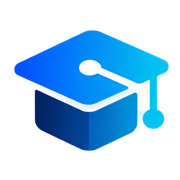
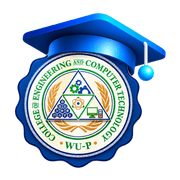
last na sana

diff --git a/components/landing/landing-nav.tsx b/components/landing/landing-nav.tsx
@@ -75,7 +75,7 @@ export function LandingNav({ account, floating = false }: { account: { homeHref:
   const pendingSection = useRef<string | null>(null)
   const headerRef = useRef<HTMLElement>(null)
   const currentSection = useCurrentSection(headerRef)
-  const menuLinks = account ? [{ href: account.homeHref, label: "Open Campus Agent" }] : GUEST_LINKS
+  const menuLinks = account ? [{ href: account.homeHref, label: "Open CECT Agent" }] : GUEST_LINKS
 
   return (
     <header ref={headerRef} className={cn(
@@ -92,7 +92,7 @@ export function LandingNav({ account, floating = false }: { account: { homeHref:
       )}>
         <Link
           href="/"
-          aria-label="Campus Agent home"
+          aria-label="CECT Agent home"
           onClick={(event) => {
             // Already on the landing page: glide back to the hero (smooth via globals.css) instead of re-navigating.
             if (location.pathname !== "/") return
@@ -106,13 +106,13 @@ export function LandingNav({ account, floating = false }: { account: { homeHref:
               src="/assets/newlogo.png"
               width={2172}
               height={724}
-              alt="Campus Agent"
+              alt="CECT Agent"
               sizes="(min-width: 640px) 168px, (min-width: 360px) 144px, 120px"
               preload
               className="h-10 w-30 object-contain min-[360px]:h-12 min-[360px]:w-36 sm:h-14 sm:w-42"
             />
           ) : (
-            <LandingLogo className="h-6 w-auto sm:h-7" priority />
+            <LandingLogo sizes="(min-width: 360px) 144px, 120px" className="h-10 w-auto min-[360px]:h-12" priority />
           )}
         </Link>
 
@@ -138,7 +138,7 @@ export function LandingNav({ account, floating = false }: { account: { homeHref:
             // Short label on phones so the header never overflows at 360px.
             <Link href={account.homeHref} className={cn(buttonVariants({ size: "lg" }), floating ? "h-10 gap-2 rounded-xl px-2.5 text-xs font-semibold transition-colors duration-200 hover:bg-primary/90 min-[360px]:text-sm sm:h-11 sm:px-4 motion-reduce:transition-none" : "px-3 sm:px-4")}>
               <span className="sm:hidden">Open app</span>
-              <span className="hidden sm:inline">Open Campus Agent</span>
+              <span className="hidden sm:inline">Open CECT Agent</span>
               {floating && <ArrowRight className="size-4" aria-hidden="true" />}
             </Link>
           ) : (
@@ -177,9 +177,9 @@ export function LandingNav({ account, floating = false }: { account: { homeHref:
             <SheetContent side="right" className="w-72 max-w-[calc(100vw-2rem)] gap-0 p-0">
               <SheetTitle className="border-b px-5 py-4">
                 {floating ? (
-                  <Image src="/assets/newlogo.png" width={2172} height={724} alt="Campus Agent" sizes="144px" className="h-12 w-36 object-contain" />
+                  <Image src="/assets/newlogo.png" width={2172} height={724} alt="CECT Agent" sizes="144px" className="h-12 w-36 object-contain" />
                 ) : (
-                  <LandingLogo className="h-6 w-auto" />
+                  <LandingLogo sizes="144px" className="h-12 w-auto" />
                 )}
                 <span className="sr-only">Menu</span>
               </SheetTitle>

diff --git a/app/admin/page.tsx b/app/admin/page.tsx
@@ -83,7 +83,7 @@ export default async function AdminDashboardPage() {
   const firstName = profile.full_name?.trim().split(/\s+/)[0] || "Admin"
 
   const metrics: { label: string; value: number; note: string; href: string; icon: LucideIcon }[] = [
-    { label: "Published Knowledge", value: publishedSections, note: "Available to Campus Agent", href: "/admin/knowledge", icon: Library },
+    { label: "Published Knowledge", value: publishedSections, note: "Available to CECT Agent", href: "/admin/knowledge", icon: Library },
     { label: "Ready Sources", value: readySources, note: "Processed and available", href: "/admin/knowledge", icon: FileText },
     { label: "Users", value: users, note: "Registered accounts", href: "/admin/users", icon: Users },
     { label: "Published Announcements", value: publishedAnnouncements, note: "University-wide notices", href: "/admin/announcements?tab=published", icon: Megaphone },
@@ -170,7 +170,7 @@ export default async function AdminDashboardPage() {
         <div className="min-w-0">
           <p className="text-sm text-muted-foreground">{greeting(now, timezone)},</p>
           <h1 className="mt-0.5 text-2xl font-semibold tracking-tight text-[var(--ink)]">Welcome back, {firstName}!</h1>
-          <p className="mt-1 text-sm text-muted-foreground">Here&apos;s an overview of your Campus Agent system.</p>
+          <p className="mt-1 text-sm text-muted-foreground">Here&apos;s an overview of your CECT Agent system.</p>
         </div>
         <DashboardClock initialIso={now} timezone={timezone} />
       </header>
@@ -197,12 +197,12 @@ export default async function AdminDashboardPage() {
       <section aria-labelledby="readiness-heading" className="mt-5 overflow-hidden rounded-lg border bg-background">
         <div className={sectionHeader}>
           <h2 id="readiness-heading" className="font-semibold">System readiness</h2>
-          <p className="mt-0.5 text-sm text-muted-foreground">Key content and configuration Campus Agent depends on.</p>
+          <p className="mt-0.5 text-sm text-muted-foreground">Key content and configuration CECT Agent depends on.</p>
         </div>
         {allReady && (
           <p className="flex items-center gap-2 border-b bg-[var(--success-surface)] px-5 py-2.5 text-sm font-medium text-[var(--success)]">
             <CircleCheck className="size-4" aria-hidden="true" />
-            Campus Agent is ready.
+            CECT Agent is ready.
           </p>
         )}
         <ul className="divide-y">
@@ -236,7 +236,7 @@ export default async function AdminDashboardPage() {
       <section aria-labelledby="updates-heading" className="mt-5 overflow-hidden rounded-lg border bg-background">
         <div className={sectionHeader}>
           <h2 id="updates-heading" className="font-semibold">Recent updates</h2>
-          <p className="mt-0.5 text-sm text-muted-foreground">Latest changes across Campus Agent.</p>
+          <p className="mt-0.5 text-sm text-muted-foreground">Latest changes across CECT Agent.</p>
         </div>
         {updates.length > 0 ? (
           <ul className="divide-y">

diff --git a/components/shared/logo.tsx b/components/shared/logo.tsx
@@ -1,25 +1,21 @@
 import Image from "next/image"
 import { cn } from "cn"
 
-// public/assets/logo.png is a 2060×344 lockup: graduation-cap mark + "Campus Agent".
-const SRC = "/assets/logo.png"
-const WIDTH = 2060
-const HEIGHT = 344
+// public/assets/newlogo.png is a 2172×724 lockup: CECT seal with graduation cap + "CECT Agent".
+const SRC = "/assets/newlogo.png"
+const WIDTH = 2172
+const HEIGHT = 724
+// public/assets/newlogo-mark.png is the seal and cap alone, cut from the same artwork (256×256).
+const MARK_SRC = "/assets/newlogo-mark.png"
 
-/** Full logo. Size it by height (e.g. "h-7 w-auto"); the aspect ratio is preserved. */
-export function Logo({ className = "h-7 w-auto", priority = false, alt = "Campus Agent" }: { className?: string; priority?: boolean; alt?: string }) {
-  return <Image src={SRC} width={WIDTH} height={HEIGHT} alt={alt} priority={priority} className={className} />
+/** Full logo. Size it by height (e.g. "h-10 w-auto"); object-contain keeps the aspect ratio. `sizes` is its rendered width. */
+export function Logo({ className = "h-10 w-auto", priority = false, alt = "CECT Agent", sizes = "168px" }: { className?: string; priority?: boolean; alt?: string; sizes?: string }) {
+  return <Image src={SRC} width={WIDTH} height={HEIGHT} alt={alt} priority={priority} sizes={sizes} className={cn("object-contain", className)} />
 }
 
-/**
- * The cap mark alone, for tight spaces (collapsed sidebars, chat avatars): a window
- * over the left of the full-height logo, so nothing is stretched or redrawn.
- * `size` is the mark's height in pixels; the cap is ~1.2× as wide as it is tall.
- */
+/** The seal and cap alone, for tight spaces (collapsed sidebars, chat avatars). `size` is its width and height in pixels. */
 export function LogoMark({ size = 32, className, priority = false }: { size?: number; className?: string; priority?: boolean }) {
   return (
-    <span aria-hidden="true" className={cn("block shrink-0 overflow-hidden", className)} style={{ height: size, width: Math.ceil(size * 1.22) }}>
-      <Image src={SRC} width={WIDTH} height={HEIGHT} alt="" priority={priority} className="h-full w-auto max-w-none" />
-    </span>
+    <Image src={MARK_SRC} width={size} height={size} alt="" aria-hidden="true" priority={priority} className={cn("block shrink-0 object-contain", className)} />
   )
 }

diff --git a/components/admin/source-actions.tsx b/components/admin/source-actions.tsx
@@ -138,7 +138,7 @@ export function SourceActions({ id, title, description, status, isPdf, isText, f
           <DialogHeader>
             <DialogTitle>Archive “{title}”?</DialogTitle>
             <DialogDescription>
-              The source and all of its sections will be archived. Campus Agent and students stop using them right away. Nothing is deleted, and you can restore the source later.
+              The source and all of its sections will be archived. CECT Agent and students stop using them right away. Nothing is deleted, and you can restore the source later.
             </DialogDescription>
           </DialogHeader>
           {error && <p role="alert" className="text-sm text-destructive">{error}</p>}
@@ -155,7 +155,7 @@ export function SourceActions({ id, title, description, status, isPdf, isText, f
             <DialogTitle>Delete “{title}”?</DialogTitle>
             <DialogDescription>
               {publishedCount > 0
-                ? `This source has ${publishedCount} Published ${publishedCount === 1 ? "section" : "sections"} that Campus Agent uses. Move them to Draft or archive the source instead.`
+                ? `This source has ${publishedCount} Published ${publishedCount === 1 ? "section" : "sections"} that CECT Agent uses. Move them to Draft or archive the source instead.`
                 : `The file${otherSectionCount ? ` and its ${otherSectionCount} Draft/Archived ${otherSectionCount === 1 ? "section" : "sections"}` : ""} will be permanently deleted. This cannot be undone.`}
             </DialogDescription>
           </DialogHeader>
@@ -221,7 +221,7 @@ function ReplaceFileDialog({ id, isPdf, open, onOpenChange, onDone }: {
           <DialogTitle>Replace file</DialogTitle>
           <DialogDescription>
             {isPdf
-              ? "Upload an updated PDF. Published sections stay available to Campus Agent; re-analyze afterwards to review new or changed topics as Drafts."
+              ? "Upload an updated PDF. Published sections stay available to CECT Agent; re-analyze afterwards to review new or changed topics as Drafts."
               : "Upload an updated PNG or JPG/JPEG image."}
           </DialogDescription>
         </DialogHeader>

diff --git a/app/admin/documents/[id]/page.tsx b/app/admin/documents/[id]/page.tsx
@@ -207,7 +207,7 @@ function sourceHealth({ status, analyzable, verb, total, published, drafts }: {
   published: number
   drafts: number
 }): { title: string; detail: string } {
-  if (status === "archived") return { title: "Archived", detail: "This source and its sections are not used by Campus Agent." }
+  if (status === "archived") return { title: "Archived", detail: "This source and its sections are not used by CECT Agent." }
   if (status === "processing") return { title: "Analysis in progress", detail: "Draft sections appear below when it finishes." }
   if (status === "failed") {
     return { title: "Analysis failed", detail: published ? "Published sections are still in use. Fix the issue above and re-analyze." : "Fix the issue above and analyze again." }
@@ -215,6 +215,6 @@ function sourceHealth({ status, analyzable, verb, total, published, drafts }: {
   if (!analyzable) return { title: "Reference file", detail: "Stored for admins and the campus map. Images are not analyzed." }
   if (total === 0) return { title: verb === "Analyze" ? "Not analyzed yet" : "Not organized yet", detail: `${verb} this source with AI to create draft knowledge sections for review, or add sections yourself.` }
   if (drafts > 0) return { title: "Needs review", detail: `${drafts} draft ${drafts === 1 ? "section is" : "sections are"} waiting for review before publishing.` }
-  if (published > 0) return { title: "Ready for Campus Agent answers", detail: `${published} published ${published === 1 ? "section is" : "sections are"} used by Campus Agent.` }
-  return { title: "No published sections", detail: "Publish reviewed sections to make them available to Campus Agent." }
+  if (published > 0) return { title: "Ready for CECT Agent answers", detail: `${published} published ${published === 1 ? "section is" : "sections are"} used by CECT Agent.` }
+  return { title: "No published sections", detail: "Publish reviewed sections to make them available to CECT Agent." }
 }

diff --git a/components/admin/guide-editor.tsx b/components/admin/guide-editor.tsx
@@ -106,7 +106,7 @@ export function GuideEditor({ values, fromSource, paged, backHref, categories, o
         </p>
       )}
       {archived && (
-        <p className="rounded-md border bg-muted/50 px-3 py-2.5 text-sm text-muted-foreground">This section is archived. Campus Agent and students don’t use it. Restore it as a Draft to edit and publish it again.</p>
+        <p className="rounded-md border bg-muted/50 px-3 py-2.5 text-sm text-muted-foreground">This section is archived. CECT Agent and students don’t use it. Restore it as a Draft to edit and publish it again.</p>
       )}
 
       <fieldset disabled={pending || archived} className="flex min-w-0 flex-col gap-5">
@@ -132,7 +132,7 @@ export function GuideEditor({ values, fromSource, paged, backHref, categories, o
         <Field id="section-summary" label={fromSource ? "AI-generated summary" : "Summary"} optional hint="Short description shown on School Guides. Leave empty to use the start of the content.">
           <textarea id="section-summary" value={description} onChange={(e) => edited(setDescription)(e.target.value)} className={cn(textareaClass, "min-h-20")} maxLength={1000} aria-describedby="section-summary-hint" />
         </Field>
-        <Field id="section-content" label={fromSource ? "Extracted content" : "Content"} hint="Campus Agent answers only from this text once the section is Published.">
+        <Field id="section-content" label={fromSource ? "Extracted content" : "Content"} hint="CECT Agent answers only from this text once the section is Published.">
           <textarea id="section-content" value={content} onChange={(e) => edited(setContent)(e.target.value)} className={cn(textareaClass, "min-h-72 font-[inherit] leading-relaxed")} maxLength={20000} required aria-describedby="section-content-hint" />
         </Field>
         <Field id="section-office" label="Responsible office" optional hint={fromSource ? "Must be named in the extracted content." : undefined}>

diff --git a/components/admin/analyze-source-button.tsx b/components/admin/analyze-source-button.tsx
@@ -87,7 +87,7 @@ export function AnalyzeSourceButton({ id, format, analyzed, processing }: {
               <DialogHeader>
                 <DialogTitle>Re-{verb.toLowerCase()} this source?</DialogTitle>
                 <DialogDescription>
-                  Campus Agent will {verb.toLowerCase()} {where} again and generate updated knowledge sections as Drafts. Nothing will be published automatically.
+                  CECT Agent will {verb.toLowerCase()} {where} again and generate updated knowledge sections as Drafts. Nothing will be published automatically.
                 </DialogDescription>
               </DialogHeader>
               <p className="text-sm leading-relaxed">
@@ -104,7 +104,7 @@ export function AnalyzeSourceButton({ id, format, analyzed, processing }: {
               <DialogHeader>
                 <DialogTitle>{pdf ? "Analyze document with AI" : "Organize text with AI"}</DialogTitle>
                 <DialogDescription>
-                  Campus Agent will {pdf ? "extract and organize this document" : "organize this text"} into reviewable knowledge sections. Nothing will be published automatically.
+                  CECT Agent will {pdf ? "extract and organize this document" : "organize this text"} into reviewable knowledge sections. Nothing will be published automatically.
                 </DialogDescription>
               </DialogHeader>
               <ul className="flex list-disc flex-col gap-1.5 pl-5 text-sm leading-relaxed">
@@ -120,7 +120,7 @@ export function AnalyzeSourceButton({ id, format, analyzed, processing }: {
                   </>
                 )}
                 <li>You can edit, delete or publish each section.</li>
-                <li>Only Published sections become available to Campus Agent.</li>
+                <li>Only Published sections become available to CECT Agent.</li>
               </ul>
             </>
           )}

diff --git a/components/admin/collection-dialogs.tsx b/components/admin/collection-dialogs.tsx
@@ -72,7 +72,7 @@ function CollectionFormDialog({ open, onOpenChange, collection }: {
       <DialogContent className="sm:max-w-md" showCloseButton={!pending}>
         <DialogHeader>
           <DialogTitle>{collection ? "Edit collection" : "Create collection"}</DialogTitle>
-          <DialogDescription>Collections group sources for admins. Campus Agent still uses Published knowledge from every collection.</DialogDescription>
+          <DialogDescription>Collections group sources for admins. CECT Agent still uses Published knowledge from every collection.</DialogDescription>
         </DialogHeader>
         <form onSubmit={submit} className="flex flex-col gap-4" noValidate>
           <Field id="collection-name" label="Name">
@@ -86,7 +86,7 @@ function CollectionFormDialog({ open, onOpenChange, collection }: {
               maxLength={500}
               disabled={pending}
               className={cn(textareaClass, "min-h-20")}
-              placeholder="e.g. Official handbook and academic rules used by Campus Agent."
+              placeholder="e.g. Official handbook and academic rules used by CECT Agent."
             />
           </Field>
           {error && <p role="alert" className="text-sm text-destructive">{error}</p>}
@@ -203,7 +203,7 @@ export function MoveToCollectionDialog({ open, onOpenChange, kind, id, title, cu
       <DialogContent className="sm:max-w-md" showCloseButton={!pending}>
         <DialogHeader>
           <DialogTitle>Move “{title}”</DialogTitle>
-          <DialogDescription>Only its collection changes. Sections, statuses and Campus Agent answers stay the same.</DialogDescription>
+          <DialogDescription>Only its collection changes. Sections, statuses and CECT Agent answers stay the same.</DialogDescription>
         </DialogHeader>
         <form
           className="flex flex-col gap-4"

diff --git a/components/admin/source-sections.tsx b/components/admin/source-sections.tsx
@@ -101,7 +101,7 @@ export function SourceSections({
         <div className="min-w-0">
           <h2 id="sections-heading" className="text-lg font-semibold">Knowledge Sections</h2>
           <p className="mt-1 max-w-prose text-sm text-muted-foreground">
-            {format === "pdf" ? "Extracted from this PDF" : "Organized from this text"}. Review each section against the original, edit it if needed, then publish. Only Published sections are used by Campus Agent.
+            {format === "pdf" ? "Extracted from this PDF" : "Organized from this text"}. Review each section against the original, edit it if needed, then publish. Only Published sections are used by CECT Agent.
           </p>
         </div>
         <div className="flex shrink-0 flex-wrap items-center gap-2">
@@ -223,7 +223,7 @@ export function SourceSections({
           <DialogHeader>
             <DialogTitle>Publish {drafts.length} draft {drafts.length === 1 ? "section" : "sections"}?</DialogTitle>
             <DialogDescription>
-              Confirm you have reviewed {drafts.length === 1 ? "it" : "them"} against the original {original}. Published sections are used by Campus Agent to answer students. You can move a section back to Draft at any time.
+              Confirm you have reviewed {drafts.length === 1 ? "it" : "them"} against the original {original}. Published sections are used by CECT Agent to answer students. You can move a section back to Draft at any time.
             </DialogDescription>
           </DialogHeader>
           <DialogFooter>

diff --git a/components/admin/admin-shell.tsx b/components/admin/admin-shell.tsx
@@ -1,12 +1,12 @@
 "use client"
 
 import { Menu } from "lucide-react"
-import Image from "next/image"
 import Link from "next/link"
 import { useEffect, useState } from "react"
 import { cn } from "cn"
 
 import { AdminSidebar } from "@/components/admin/admin-sidebar"
+import { Logo } from "@/components/shared/logo"
 import { Sheet, SheetContent, SheetTitle, SheetTrigger } from "@/components/ui/sheet"
 
 export function AdminShell({ assistantName, userName, userEmail, children }: {
@@ -43,7 +43,7 @@ export function AdminShell({ assistantName, userName, userEmail, children }: {
             </SheetContent>
           </Sheet>
           <Link href="/admin" aria-label={`${assistantName} administration home`} className="flex min-w-0 items-center gap-2 rounded-md outline-none focus-visible:ring-2 focus-visible:ring-ring">
-            <Image src="/assets/logo.png" width={2060} height={344} alt="" priority className="h-6 w-auto" />
+            <Logo alt="" priority sizes="132px" className="h-11 w-auto" />
             <span className="text-xs font-medium text-muted-foreground">Admin</span>
           </Link>
         </header>

diff --git a/lib/branding.ts b/lib/branding.ts
@@ -5,7 +5,7 @@ import { cache } from "react"
 import { createClient } from "@/lib/supabase/server"
 
 export type Branding = {
-  /** The product name. Fixed by default ("Campus Agent"); not edited in Admin › Settings. */
+  /** The product name. Fixed by default ("CECT Agent"); not edited in Admin › Settings. */
   assistantName: string
   universityName: string | null
   universityShortName: string | null
@@ -14,7 +14,7 @@ export type Branding = {
 }
 
 const DEFAULT_BRANDING: Branding = {
-  assistantName: "Campus Agent",
+  assistantName: "CECT Agent",
   universityName: null,
   universityShortName: null,
   universityLogoUrl: null,
@@ -22,7 +22,7 @@ const DEFAULT_BRANDING: Branding = {
 }
 
 // White-label values from system_settings (readable by everyone): the school's name, short
-// name, logo and time zone. Falls back to "Campus Agent" so the UI never hardcodes a school.
+// name, logo and time zone. Falls back to "CECT Agent" so the UI never hardcodes a school.
 export const getBranding = cache(async (): Promise<Branding> => {
   const supabase = await createClient()
   const { data } = await supabase

diff --git a/components/admin/admin-sidebar.tsx b/components/admin/admin-sidebar.tsx
@@ -49,7 +49,7 @@ export function AdminSidebar({ assistantName, userName, userEmail, collapsed = f
 
   return (
     <div className="flex h-full min-h-0 flex-col border-r bg-background text-foreground">
-      <div className={cn("flex shrink-0 border-b", collapsed ? "flex-col items-center gap-2 px-2 py-3" : "min-h-16 items-center gap-2 px-4")}>
+      <div className={cn("flex shrink-0 border-b", collapsed ? "flex-col items-center gap-2 px-2 py-3" : "min-h-16 items-center gap-2 px-4 py-2")}>
         <Link
           href="/admin"
           onClick={onNavigate}
@@ -60,7 +60,7 @@ export function AdminSidebar({ assistantName, userName, userEmail, collapsed = f
             <LogoMark size={32} priority />
           ) : (
             <span className="flex flex-col gap-1">
-              <Logo alt="" priority className="h-6 w-auto max-w-full self-start" />
+              <Logo alt="" priority sizes="132px" className="h-11 w-auto max-w-full self-start" />
               <span className="text-[0.6875rem] font-medium tracking-wide text-muted-foreground uppercase">Administration</span>
             </span>
           )}
